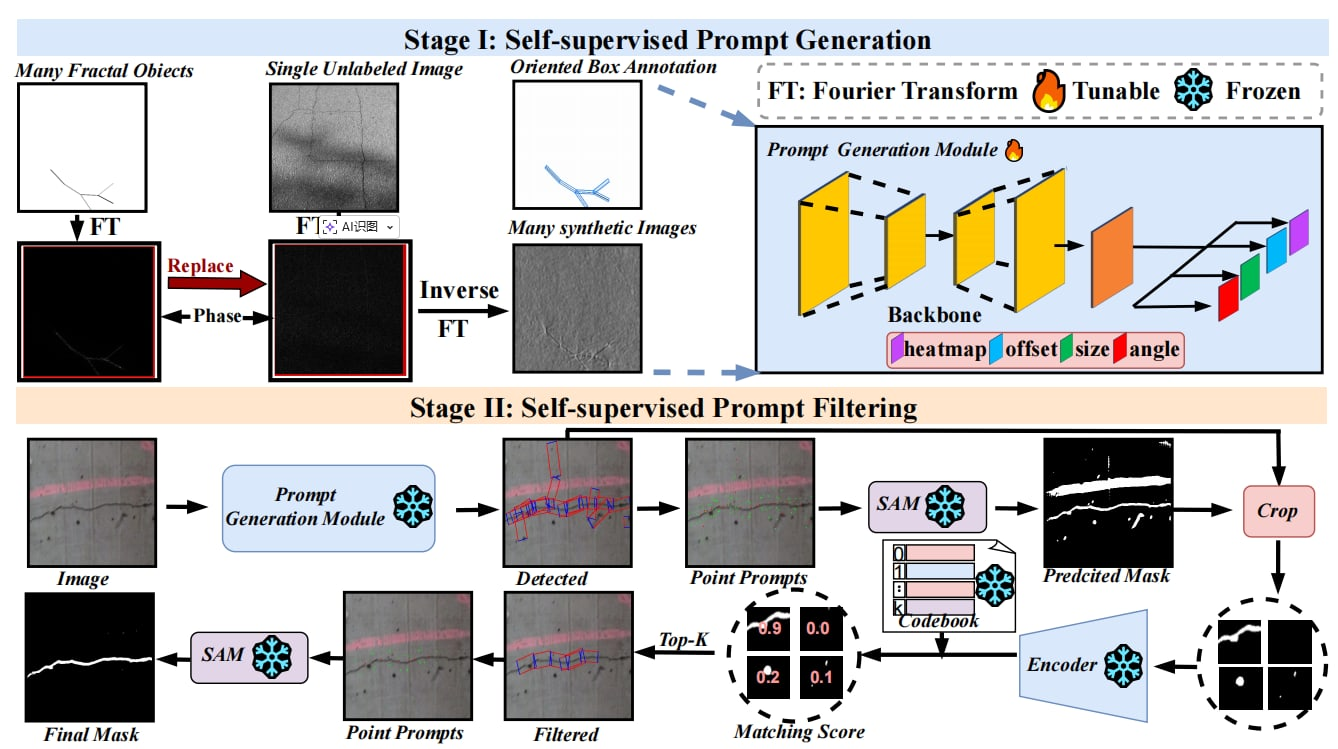
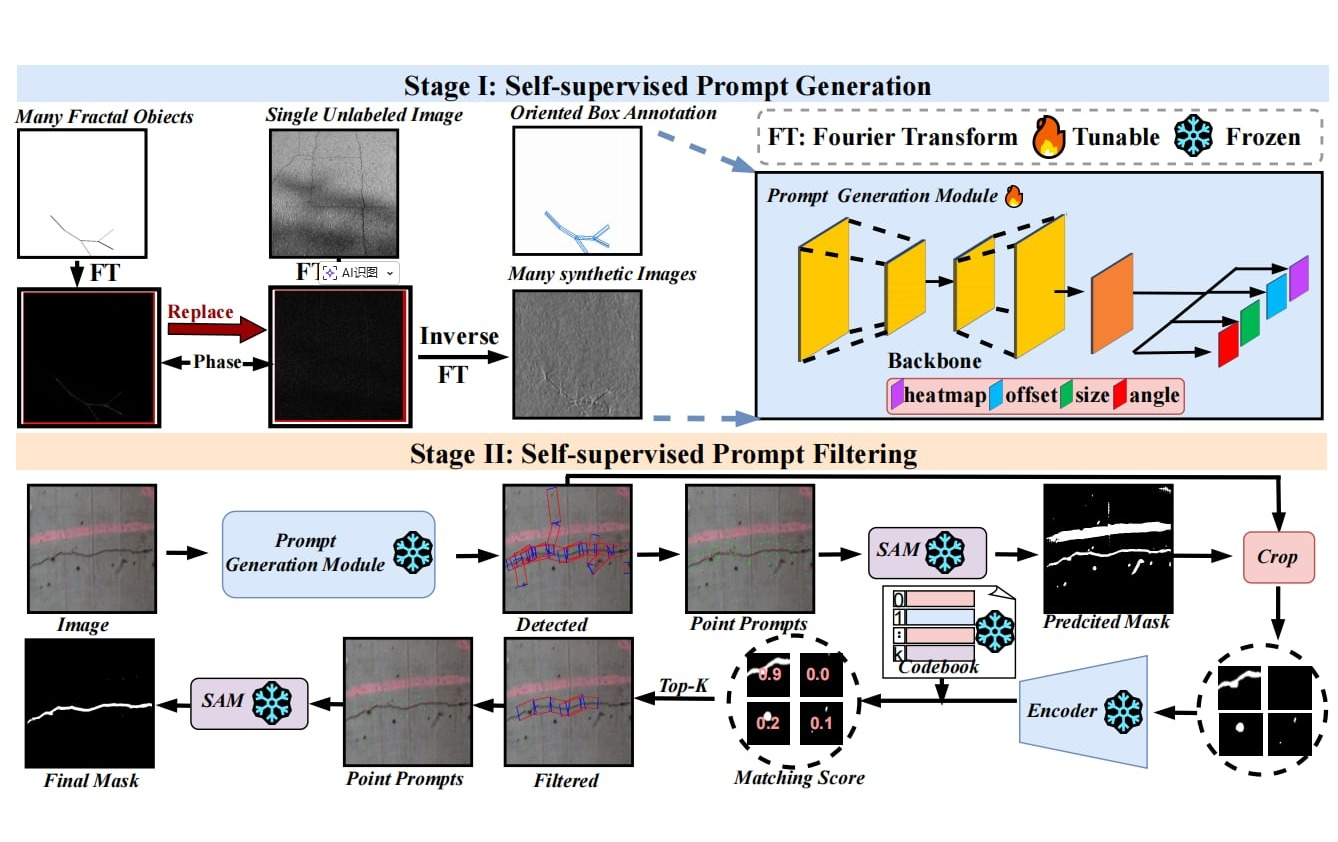
Match project cover ratios and drop the extra MARS certificate link.

diff --git a/homepage/content/figures.ts b/homepage/content/figures.ts
@@ -34,7 +34,7 @@ export const caproIntro: MediaRef = {
   src: "/figures/capro-intro.jpg",
   alt: "CaPro pipeline for adapting a segmentation model to thin curvilinear structures from one unlabeled image.",
   width: 1338,
-  height: 749,
+  height: 842,
   credit: "Figure from the CaPro repository, xmed-lab/CaPro",
   href: "https://github.com/xmed-lab/CaPro",
 };
@@ -43,7 +43,7 @@ export const aiclReliability: MediaRef = {
   src: "/figures/aicl-reliability.png",
   alt: "Reliability diagrams for crack recognition on SDNET2018 without and with AICL; with AICL, accuracy tracks confidence closely.",
   width: 1005,
-  height: 452,
+  height: 632,
   credit: "Figure 4 of the AICL paper, AAAI 2025",
   href: "https://ojs.aaai.org/index.php/AAAI/article/view/33755",
 };
@@ -80,19 +80,10 @@ export const g3flowSpatialAlignment: MediaRef = {
 export const robotwinRealWorld: MediaRef = {
   src: "/figures/robotwin-real-world.jpg",
   alt: "RoboTwin 2.0 real-world evaluation: a dual-arm robot and a bottle on seen and unseen table backgrounds, with and without clutter.",
-  width: 656,
+  width: 966,
   height: 608,
   credit: "Fig. 10 · RoboTwin 2.0",
   href: "https://arxiv.org/abs/2506.18088",
-};
-
-export const marsCertificate: MediaRef = {
-  src: "/figures/neurips25-mars-thumb.jpg",
-  alt: "Certificate of the NeurIPS 2025 SpaVLE Workshop Control Track Champion, awarded to MMLab@HKU×D-Robotics for the Multi-Agent Embodied Intelligence Challenge.",
-  width: 360,
-  height: 254,
-  credit: "NeurIPS 2025 SpaVLE",
-  href: "/figures/neurips25-mars.pdf",
 };
 
 export const irosCertificate: MediaRef = {

diff --git a/homepage/content/projects.ts b/homepage/content/projects.ts
@@ -5,7 +5,6 @@ import {
   chinasiCertificate,
   g3flowTeaser,
   irosCertificate,
-  marsCertificate,
   marsCertificateCover,
   mmhandOverview,
   robotwinTeaser,
@@ -85,7 +84,6 @@ export const projects: Project[] = [
       { kind: "paper", label: "Report", href: "https://arxiv.org/abs/2601.18733" },
     ],
     media: marsCertificateCover,
-    awards: [marsCertificate],
     evidence: ["CHL-MARS"],
     order: 5,
   },
